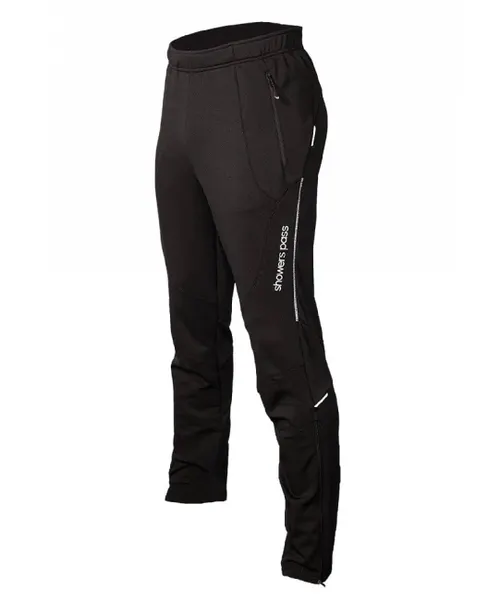
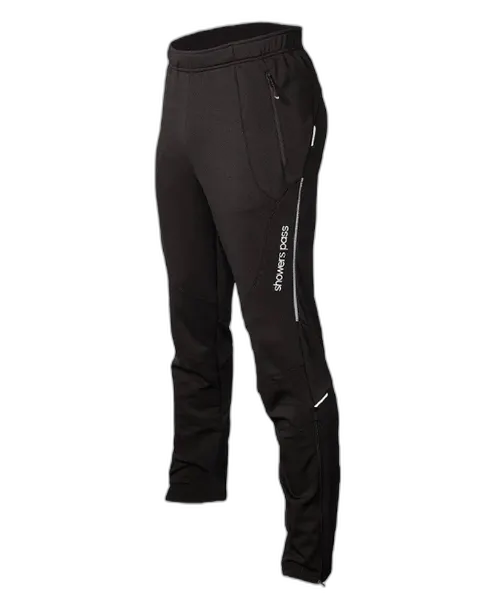
Add a remove BG

diff --git a/app.py b/app.py
@@ -13,6 +13,8 @@ from transformers import pipeline  # NEW import
 import requests  # NEW import for local API call
 import ollama  # ensure ollama is imported
 import shutil  # Add this import for file operations
+from rembg import remove  # Add this import for background removal
+import io  # Add this for handling image data
 
 app = Flask(__name__)
 UPLOAD_FOLDER = os.path.join(os.path.dirname(os.path.abspath(__file__)), "uploads")
@@ -219,6 +221,40 @@ if not os.path.exists(DEFAULT_IMG_DIR):
         except Exception as e:
             print(f"Could not create default image: {e}")
 
+# New function to remove background from images
+def remove_background(input_image):
+    """
+    Removes the background from an image and returns the processed image.
+    
+    Args:
+        input_image: PIL Image or file-like object
+    Returns:
+        PIL Image with transparent background
+    """
+    try:
+        # Convert PIL Image to bytes if needed
+        if isinstance(input_image, Image.Image):
+            img_byte_arr = io.BytesIO()
+            input_image.save(img_byte_arr, format='PNG')
+            img_data = img_byte_arr.getvalue()
+        else:
+            # Assume input is a file path
+            with open(input_image, 'rb') as img_file:
+                img_data = img_file.read()
+        
+        # Process the image to remove background
+        output_data = remove(img_data)
+        
+        # Convert back to PIL Image
+        result_image = Image.open(io.BytesIO(output_data))
+        return result_image
+    except Exception as e:
+        print(f"Error removing background: {str(e)}")
+        # Return the original image if background removal fails
+        if isinstance(input_image, str) and os.path.exists(input_image):
+            return Image.open(input_image)
+        return input_image
+
 @app.route("/")
 def index():
     # Synchronize the database with actual files
@@ -278,13 +314,33 @@ def upload():
             continue
         try:
             filename = secure_filename(file.filename)
-            file_path = os.path.join(app.config['UPLOAD_FOLDER'], filename)
             
-            # Ensure the parent directory exists
-            os.makedirs(os.path.dirname(file_path), exist_ok=True)
+            # Create temporary file path
+            temp_path = os.path.join("/tmp", filename)
+            file.save(temp_path)
             
-            # Save the file
-            file.save(file_path)
+            # Remove background from image
+            try:
+                processed_image = remove_background(temp_path)
+                
+                # Save processed image (with transparent background)
+                file_path = os.path.join(app.config['UPLOAD_FOLDER'], filename)
+                os.makedirs(os.path.dirname(file_path), exist_ok=True)
+                
+                # Save with transparent background
+                processed_image.save(file_path, format="PNG")
+                
+                print(f"Background removed and saved: {filename}")
+            except Exception as e:
+                print(f"Background removal failed for {filename}: {str(e)}")
+                # If background removal fails, use original image
+                file_path = os.path.join(app.config['UPLOAD_FOLDER'], filename)
+                os.makedirs(os.path.dirname(file_path), exist_ok=True)
+                shutil.copy(temp_path, file_path)
+                
+            # Clean up temp file
+            if os.path.exists(temp_path):
+                os.remove(temp_path)
             
             # Process the image
             label = classify_cloth(file_path)
@@ -315,7 +371,8 @@ def upload():
                 "pattern": pattern,
                 "sex": sex,
                 "hand": hand,
-                "path": file_path  # Include the full path for debugging
+                "path": file_path,
+                "background_removed": True
             })
         except Exception as e:
             # Continue with other files if one fails
@@ -451,9 +508,29 @@ def match_upload():
     file = request.files["match_image"]
     if file.filename == "":
         return jsonify({"error": "No file selected"}), 400
+        
     filename = secure_filename(file.filename)
-    file_path = os.path.join(app.config['UPLOAD_FOLDER'], filename)
-    file.save(file_path)
+    
+    # Create temporary file path
+    temp_path = os.path.join("/tmp", filename)
+    file.save(temp_path)
+    
+    # Remove background from image
+    try:
+        processed_image = remove_background(temp_path)
+        
+        # Save processed image (with transparent background)
+        file_path = os.path.join(app.config['UPLOAD_FOLDER'], filename)
+        processed_image.save(file_path, format="PNG")
+    except Exception as e:
+        print(f"Background removal failed for {filename}: {str(e)}")
+        # If background removal fails, use original image
+        file_path = os.path.join(app.config['UPLOAD_FOLDER'], filename)
+        shutil.copy(temp_path, file_path)
+    
+    # Clean up temp file
+    if os.path.exists(temp_path):
+        os.remove(temp_path)
     
     new_label = classify_cloth(file_path)
     new_wearable = determine_wearable_type(new_label)
